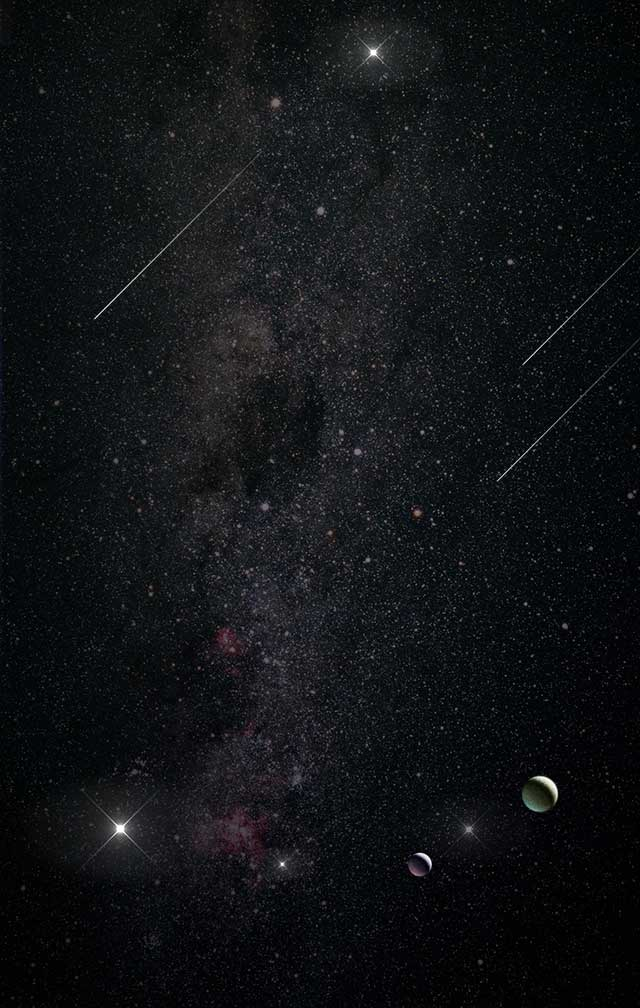
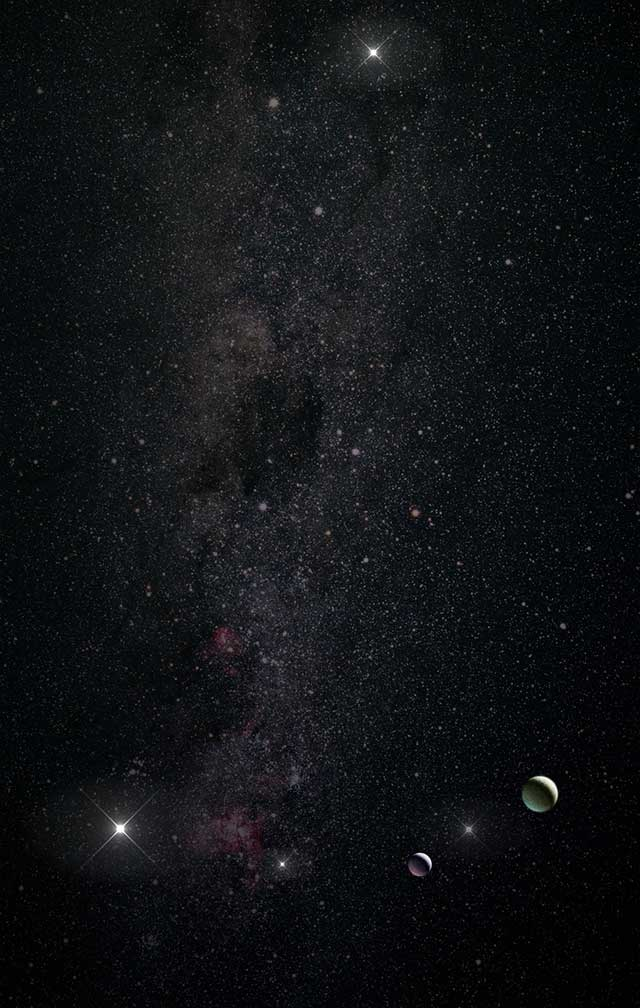
修改
修改

diff --git a/app/js/main.js b/app/js/main.js
@@ -188,7 +188,7 @@ var showInvite = new TimelineMax({paused: true, onComplete: function() {
 var showMeteor = new TimelineMax({repeat: -1, repeatDelay: 0.5, paused: true});
 var scaleLight = new TimelineMax({paused: true, onComplete: function() {
 	showLight.play();
-	showMeteor.play();
+
 	starBlink.play();
 }});
 var showLight = new TimelineMax({repeat: -1, yoyo: true, paused: true});
@@ -202,9 +202,7 @@ scaleLight.from($('#light1'), 0.5, {scale: 0, autoAlpha:0, transformOrigin:"left
 showLight.to($('#light1'), 1.5, {rotation: 25,  transformOrigin:"left top", ease: Power1.easeInOut})
 					.addLabel("start", "-=1.5")
 					.to($('#light2'), 1.5, {rotation: -25,  transformOrigin:"right top", ease: Power1.easeInOut}, "start")
-showMeteor.to($('#meteor1'), 1.2, {left: -170, top: 480})
-					.to($('#meteor2'), 1.2, {left: -170, top: 840}, "-=0.3")
-					.to($('#meteor3'), 1.2, {left: -170, top: 920}, "-=0.4")
+
 showInvite.from($('#logo'), 0.5, {autoAlpha: 0})
 					.staggerFrom([$('#content1'), $('#content3'), $('#content4')], 0.8, {autoAlpha: 0, y: '+=20'}, 0.25)
 					.from($('#content5'), 0.6, {x: 640, ease: Back.easeOut.config(1.7)}, '-=0.3');

diff --git a/app/index.html b/app/index.html
@@ -106,9 +106,7 @@
           <img src="images/music_icon.png" alt="" class="music-control-icon hvcenter">
         </div><!--/music-control-->
 
-        <img src="images/meteor.png" id="meteor1" />
-        <img src="images/meteor.png" id="meteor2" />
-        <img src="images/meteor.png" id="meteor3" />
+      
         <img src="images/logo.png" alt="" id="logo" >
         <div id="content">
           <img src="images/content1.png" alt="" id="content1" >

diff --git a/app/index.php b/app/index.php
@@ -106,9 +106,7 @@
           <img src="images/music_icon.png" alt="" class="music-control-icon hvcenter">
         </div><!--/music-control-->
 
-        <img src="images/meteor.png" id="meteor1" />
-        <img src="images/meteor.png" id="meteor2" />
-        <img src="images/meteor.png" id="meteor3" />
+        
         <img src="images/logo.png" alt="" id="logo" >
         <div id="content">
           <img src="images/content1.png" alt="" id="content1" >
@@ -158,10 +156,10 @@ $viewid = $obj->doView(); // 记录访问
 
 // 分享数据
 $sharedata = array(
-	'img' => 'http://'.$_SERVER['HTTP_HOST'].'/video2/images/icon.jpg',		// 分享图标地址 页面不让分享的时候 无需
+	'img' => 'http://'.$_SERVER['HTTP_HOST'].'/video2/images/icon.jpg?111',		// 分享图标地址 页面不让分享的时候 无需
     'url' => 'http://'.$_SERVER['HTTP_HOST'].'/video2/index.php',	// 分享图标地址 页面不让分享的时候 无需
-	'title' =>	"您有一条来自神秘大咖的未读消息",	// 分享图标地址 页面不让分享的时候 无需
-	'desc' =>	"您有一条来自神秘大咖的未读消息",	// 分享图标地址 页面不让分享的时候 无需
+	'title' =>	"主要看气质，神秘女大咖颜值爆表",	// 分享图标地址 页面不让分享的时候 无需
+	'desc' =>	"主要看气质，神秘女大咖颜值爆表",	// 分享图标地址 页面不让分享的时候 无需
 );
 $obj->outputShare($sharedata); // 输出分享
 ?>
